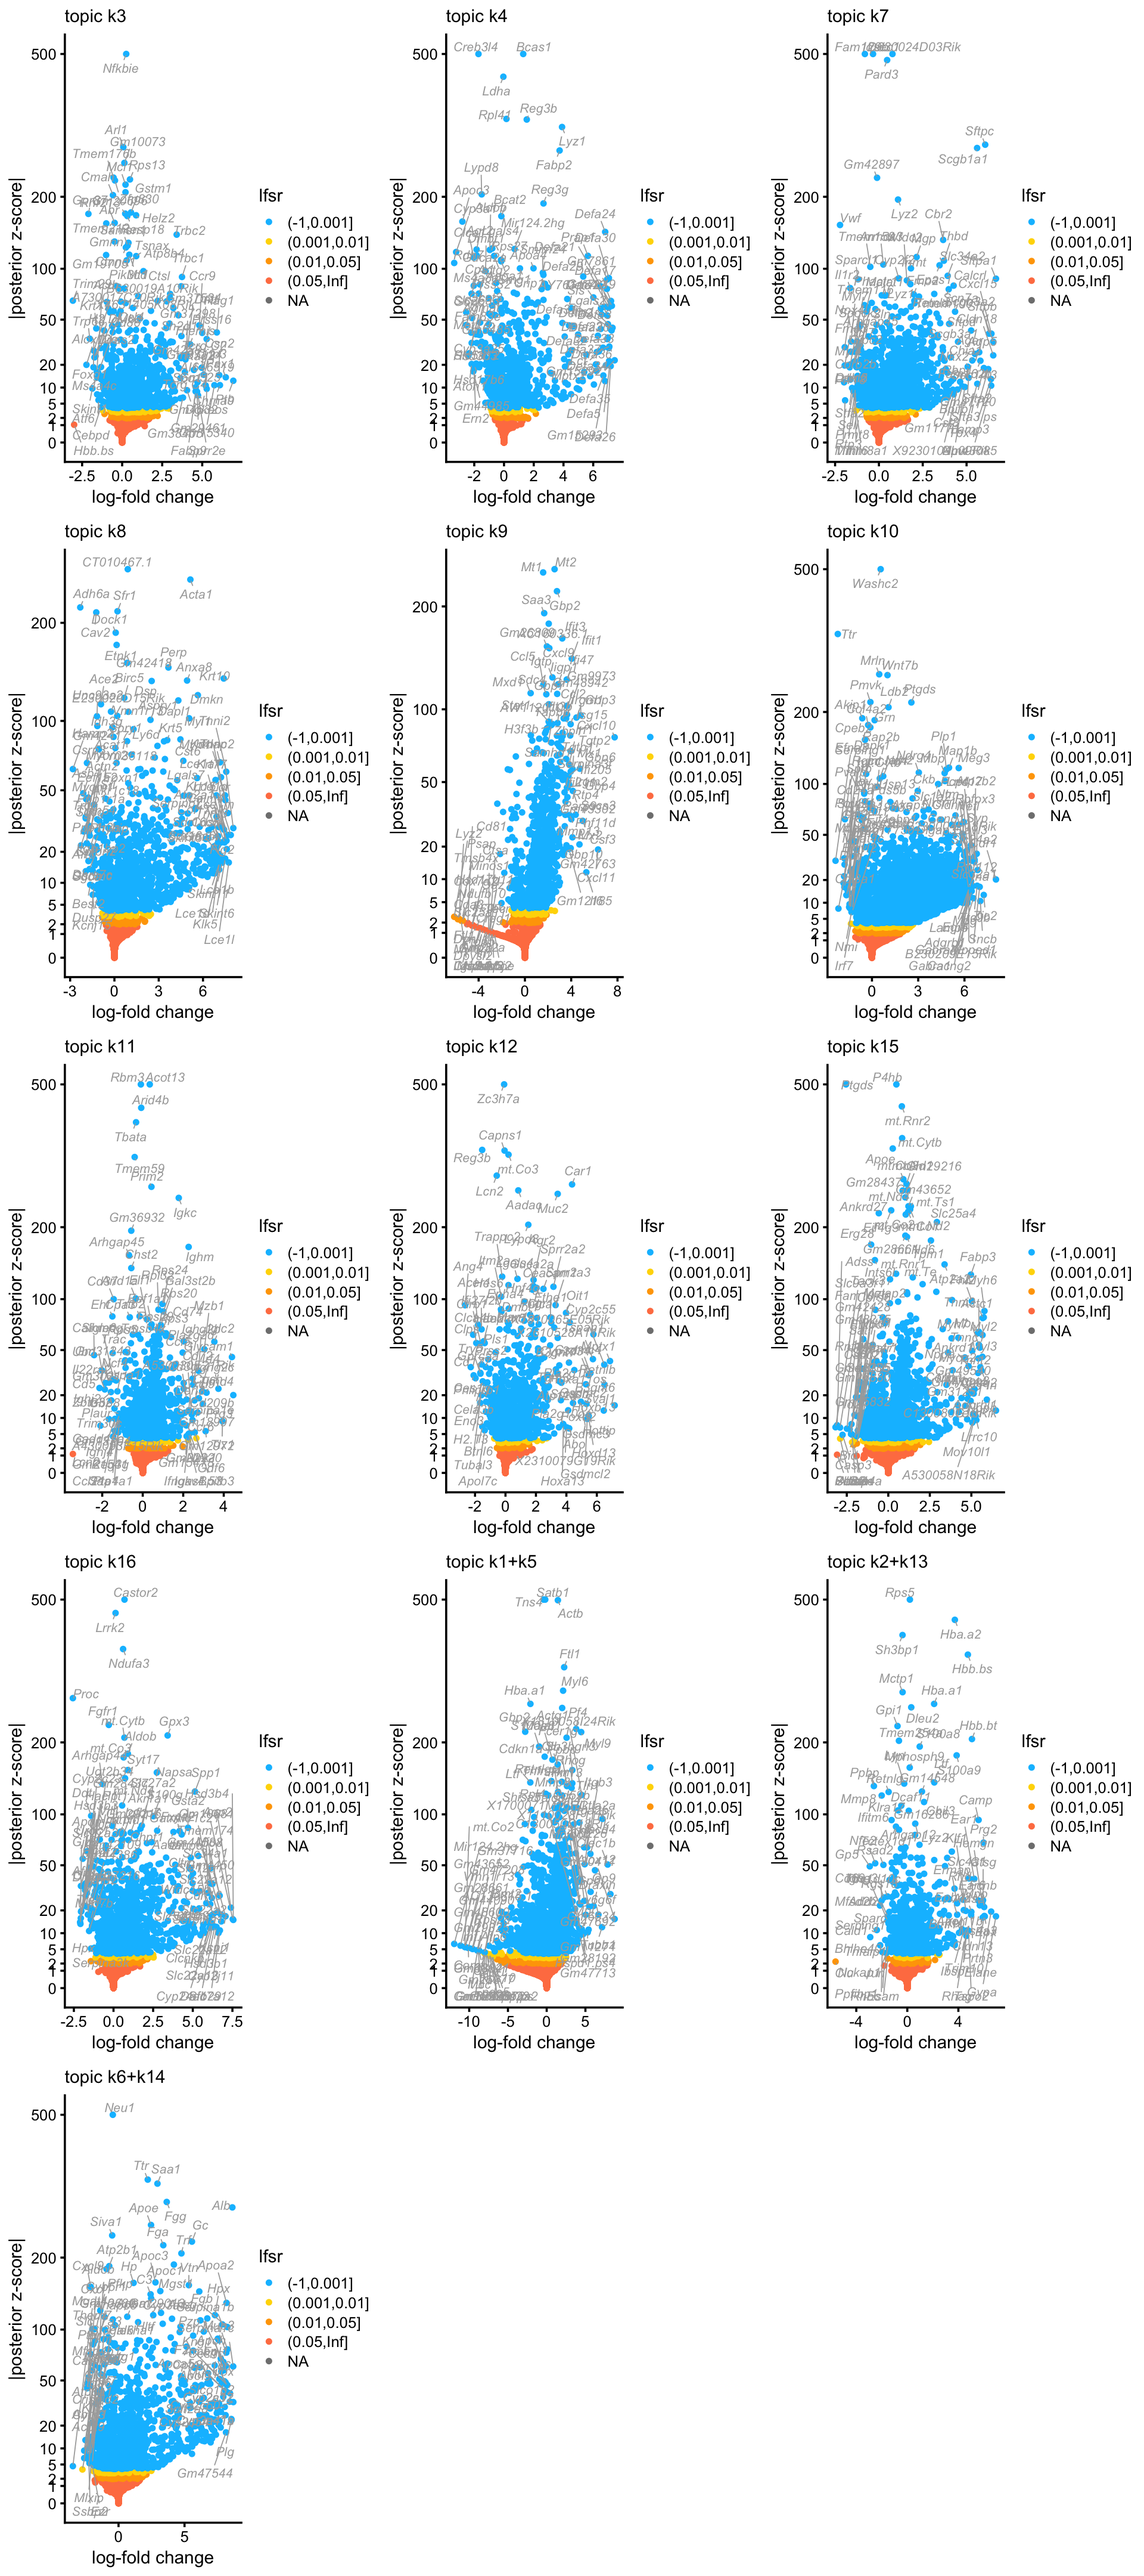
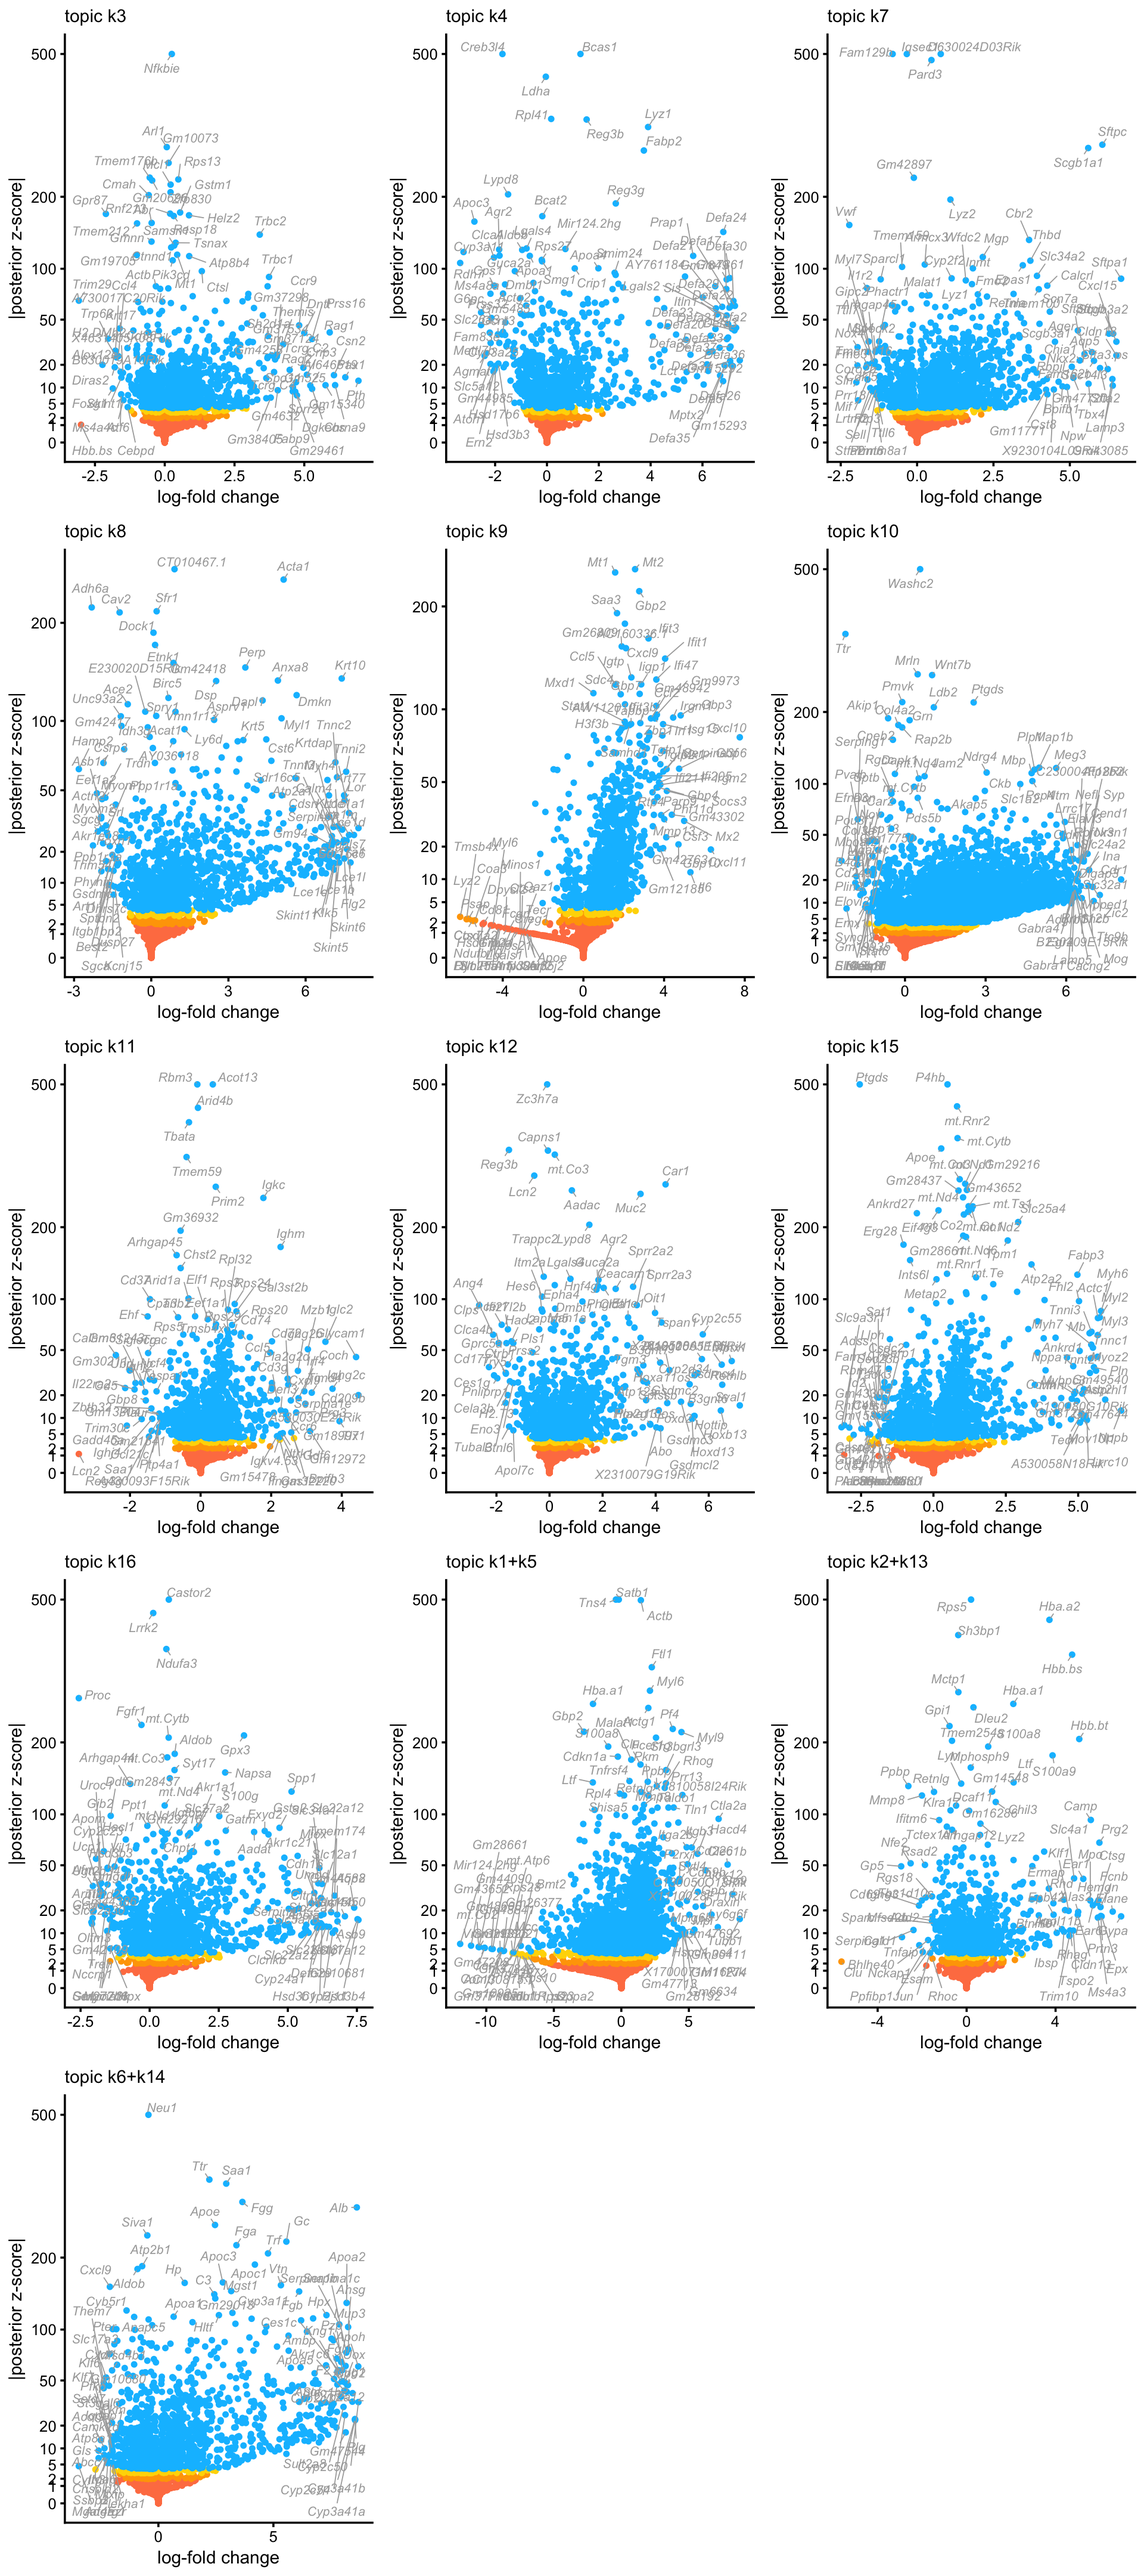
Fixed the volcano plots in the examine_topic_model_k16 analysis.

diff --git a/docs/examine_topic_model_k16.html b/docs/examine_topic_model_k16.html
@@ -432,15 +432,15 @@ project makes it easier to run your code on other machines.</p>
 <div class="panel panel-default">
 <div class="panel-heading">
 <p class="panel-title">
-<a data-toggle="collapse" data-parent="#workflowr-checks" href="#strongRepositoryversionstrongahrefhttpsgithubcompcarbolpstree81bea77f4c98caeee3ae5eda856e1d431fe8e055targetblank81bea77a">
+<a data-toggle="collapse" data-parent="#workflowr-checks" href="#strongRepositoryversionstrongahrefhttpsgithubcompcarbolpstree6425fe5d1d30a071cde669e2a88a0cbab41df9c8targetblank6425fe5a">
 <span class="glyphicon glyphicon-ok text-success"
 aria-hidden="true"></span> <strong>Repository version:</strong>
-<a href="https://github.com/pcarbo/lps/tree/81bea77f4c98caeee3ae5eda856e1d431fe8e055" target="_blank">81bea77</a>
+<a href="https://github.com/pcarbo/lps/tree/6425fe5d1d30a071cde669e2a88a0cbab41df9c8" target="_blank">6425fe5</a>
 </a>
 </p>
 </div>
 <div
[2 lines of base64/hex data omitted]
 class="panel-collapse collapse">
 <div class="panel-body">
 <p>
@@ -450,7 +450,7 @@ reproducibility.
 </p>
 <p>
 The results in this page were generated with repository version
-<a href="https://github.com/pcarbo/lps/tree/81bea77f4c98caeee3ae5eda856e1d431fe8e055" target="_blank">81bea77</a>.
+<a href="https://github.com/pcarbo/lps/tree/6425fe5d1d30a071cde669e2a88a0cbab41df9c8" target="_blank">6425fe5</a>.
 See the <em>Past versions</em> tab to see a history of the changes made
 to the R Markdown and HTML files.
 </p>
@@ -471,6 +471,29 @@ Ignored files:
     Ignored:    output/fits-lps-bytissue.RData
     Ignored:    output/gsea-lps-k=16-CP+GO-only.RData
     Ignored:    output/gsea-lps-k=16.RData
+
+Untracked files:
+    Untracked:  analysis/structure_plot_k16.pdf
+    Untracked:  analysis/structure_plot_k16.png
+    Untracked:  analysis/volcano_plot_k1+k5.html
+    Untracked:  analysis/volcano_plot_k1.html
+    Untracked:  analysis/volcano_plot_k10.html
+    Untracked:  analysis/volcano_plot_k11.html
+    Untracked:  analysis/volcano_plot_k12.html
+    Untracked:  analysis/volcano_plot_k13.html
+    Untracked:  analysis/volcano_plot_k14.html
+    Untracked:  analysis/volcano_plot_k15.html
+    Untracked:  analysis/volcano_plot_k16.html
+    Untracked:  analysis/volcano_plot_k2+k13.html
+    Untracked:  analysis/volcano_plot_k2.html
+    Untracked:  analysis/volcano_plot_k3.html
+    Untracked:  analysis/volcano_plot_k4.html
+    Untracked:  analysis/volcano_plot_k5.html
+    Untracked:  analysis/volcano_plot_k6+k14.html
+    Untracked:  analysis/volcano_plot_k6.html
+    Untracked:  analysis/volcano_plot_k7.html
+    Untracked:  analysis/volcano_plot_k8.html
+    Untracked:  analysis/volcano_plot_k9.html
 
 </code></pre>
 <p>
@@ -517,6 +540,40 @@ Message
 </tr>
 </thead>
 <tbody>
+<tr>
+<td>
+Rmd
+</td>
+<td>
+<a href="https://github.com/pcarbo/lps/blob/6425fe5d1d30a071cde669e2a88a0cbab41df9c8/analysis/examine_topic_model_k16.Rmd" target="_blank">6425fe5</a>
+</td>
+<td>
+Peter Carbonetto
+</td>
+<td>
+2025-05-19
+</td>
+<td>
+wflow_publish("examine_topic_model_k16.Rmd", verbose = TRUE,
+</td>
+</tr>
+<tr>
+<td>
+html
+</td>
+<td>
+<a href="https://rawcdn.githack.com/pcarbo/lps/9512227e9ed5a1b17643e1e1d8bed741add5d222/docs/examine_topic_model_k16.html" target="_blank">9512227</a>
+</td>
+<td>
+Peter Carbonetto
+</td>
+<td>
+2025-05-19
+</td>
+<td>
+Ran wflow_publish("examine_topic_model_k16.Rmd")
+</td>
+</tr>
 <tr>
 <td>
 Rmd
@@ -931,6 +988,17 @@ Date
 <tbody>
 <tr>
 <td>
+<a href="https://github.com/pcarbo/lps/blob/9512227e9ed5a1b17643e1e1d8bed741add5d222/docs/figure/examine_topic_model_k16.Rmd/plot-progress-1.png" target="_blank">9512227</a>
+</td>
+<td>
+Peter Carbonetto
+</td>
+<td>
+2025-05-19
+</td>
+</tr>
+<tr>
+<td>
 <a href="https://github.com/pcarbo/lps/blob/abc3e45926f94e02dec6348ccb48717aa38ecc06/docs/figure/examine_topic_model_k16.Rmd/plot-progress-1.png" target="_blank">abc3e45</a>
 </td>
 <td>
@@ -1007,6 +1075,17 @@ Date
 <tbody>
 <tr>
 <td>
+<a href="https://github.com/pcarbo/lps/blob/9512227e9ed5a1b17643e1e1d8bed741add5d222/docs/figure/examine_topic_model_k16.Rmd/structure-plot-1-1.png" target="_blank">9512227</a>
+</td>
+<td>
+Peter Carbonetto
+</td>
+<td>
+2025-05-19
+</td>
+</tr>
+<tr>
+<td>
 <a href="https://github.com/pcarbo/lps/blob/abc3e45926f94e02dec6348ccb48717aa38ecc06/docs/figure/examine_topic_model_k16.Rmd/structure-plot-1-1.png" target="_blank">abc3e45</a>
 </td>
 <td>
@@ -1071,6 +1150,17 @@ Date
 <tbody>
 <tr>
 <td>
+<a href="https://github.com/pcarbo/lps/blob/9512227e9ed5a1b17643e1e1d8bed741add5d222/docs/figure/examine_topic_model_k16.Rmd/structure-plot-2-1.png" target="_blank">9512227</a>
+</td>
+<td>
+Peter Carbonetto
+</td>
+<td>
+2025-05-19
+</td>
+</tr>
+<tr>
+<td>
 <a href="https://github.com/pcarbo/lps/blob/abc3e45926f94e02dec6348ccb48717aa38ecc06/docs/figure/examine_topic_model_k16.Rmd/structure-plot-2-1.png" target="_blank">abc3e45</a>
 </td>
 <td>
@@ -1103,7 +1193,7 @@ p &lt;- vector(&quot;list&quot;,13)
 names(p) &lt;- topics
 for (k in topics) {
   p[[k]] &lt;- volcano_plot(de_merged,k = k,ymax = 500) +
-    guides(fill = &quot;none&quot;)
+    guides(color = &quot;none&quot;)
   volcano_plotly(de_merged,k = k,ymax = 500,
                  file = paste(&quot;volcano_plot_&quot;,k,&quot;.html&quot;,sep = &quot;&quot;))
 }
@@ -1131,6 +1221,17 @@ Date
 </tr>
 </thead>
 <tbody>
+<tr>
+<td>
+<a href="https://github.com/pcarbo/lps/blob/9512227e9ed5a1b17643e1e1d8bed741add5d222/docs/figure/examine_topic_model_k16.Rmd/volcano-plots-1-1.png" target="_blank">9512227</a>
+</td>
+<td>
+Peter Carbonetto
+</td>
+<td>
+2025-05-19
+</td>
+</tr>
 <tr>
 <td>
 <a href="https://github.com/pcarbo/lps/blob/abc3e45926f94e02dec6348ccb48717aa38ecc06/docs/figure/examine_topic_model_k16.Rmd/volcano-plots-1-1.png" target="_blank">abc3e45</a>
@@ -1197,7 +1298,7 @@ p &lt;- vector(&quot;list&quot;,6)
 names(p) &lt;- topics
 for (k in topics) {
   p[[k]] &lt;- volcano_plot(de,k = k,ymax = 300) +
-    guides(fill = &quot;none&quot;)
+    guides(color = &quot;none&quot;)
   volcano_plotly(de,k = k,ymax = 300,
                  file = paste(&quot;volcano_plot_&quot;,k,&quot;.html&quot;,sep = &quot;&quot;))
 }
@@ -1225,6 +1326,17 @@ Date
 </tr>
 </thead>
 <tbody>
+<tr>
+<td>
+<a href="https://github.com/pcarbo/lps/blob/9512227e9ed5a1b17643e1e1d8bed741add5d222/docs/figure/examine_topic_model_k16.Rmd/volcano-plots-2-1.png" target="_blank">9512227</a>
+</td>
+<td>
+Peter Carbonetto
+</td>
+<td>
+2025-05-19
+</td>
+</tr>
 <tr>
 <td>
 <a href="https://github.com/pcarbo/lps/blob/abc3e45926f94e02dec6348ccb48717aa38ecc06/docs/figure/examine_topic_model_k16.Rmd/volcano-plots-2-1.png" target="_blank">abc3e45</a>
